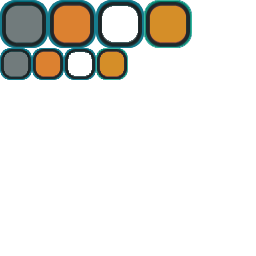
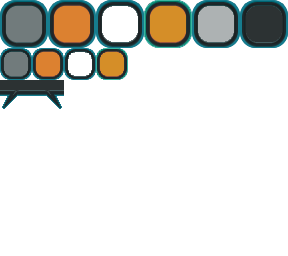
wip: story ui integration, press 8

Changed region(s): [[0.0, 0.0, 1.0, 0.4375]]

diff --git a/js/uxStory.js b/js/uxStory.js
@@ -1,0 +1,121 @@
+export { UxStory };
+
+import { Color } from "./base/color.js";
+import { Generator } from "./base/generator.js";
+import { Hierarchy } from "./base/hierarchy.js";
+import { Keys } from "./base/keys.js";
+import { Util } from "./base/util.js";
+import { UxCtrl } from "./base/uxCtrl.js";
+import { Templates } from "./templates.js";
+
+class UxStory extends UxCtrl {
+    
+    cpost(spec) {
+        super.cpost(spec);
+
+        // fields needed for UI
+        /*
+        let npcName = (this.npc && this.npc.name) ? this.npc.name : "<name>";
+        let bio = (this.npc && this.npc.bio) ? this.npc.bio.info : "<bio>";
+        let job = (this.npc && this.npc.bio) ? this.npc.bio.job : "<job>";
+        let likes = (this.npc && this.npc.bio) ? this.npc.bio.likes : "<likes>";
+        let dislikes = (this.npc && this.npc.bio) ? this.npc.bio.dislikes : "<dislikes>";
+        let portraitTag = (this.npc && this.npc.portraitTag) ? this.npc.portraitTag : "gnome.portrait";
+        // FIXME: tie to npc morale
+        let moraleTag = "like";
+        */
+
+        // construct the UI elements
+        this.view = Generator.generate({
+            cls: "UxCanvas",
+            ui: true,
+            cvsid: "uicanvas",
+            xchildren: [
+                Templates.panel(null, {xsketch: {cls: "Rect", color: "black"}}),
+                Templates.panel(null, {xxform: {offset: 20, left: .1, right: .7, top: .5, bottom: .2}, xchildren: [
+                    Templates.panel("actor1", { xsketch: {cls: "Media", tag: "fairy.right"}}),
+                ]}),
+                Templates.panel(null, {xxform: {left: .3, right: .3, top: .3, bottom: .4}, xchildren: [
+                    Templates.panel(null, { xsketch: {cls: "Media", tag: "buttonDark"}}),
+                ]}),
+                Templates.panel("leftChat", {xxform: {left: .4, right: .6, top: .6, bottom: .4, width: 32, height: 32}, xsketch: { cls: "Media", tag: "chatLeft"}}),
+                Templates.panel("rightChat", {xxform: {left: .6, right: .4, top: .6, bottom: .4, width: 32, height: 32}, xsketch: { cls: "Media", tag: "chatRight"}}),
+                Templates.panel(null, {xxform: {left: .7, right: .1, top: .5, bottom: .2}, xchildren: [
+                    Templates.panel("actor2", { xsketch: {cls: "Media", tag: "fairy.left"}}),
+                ]}),
+                    /*
+                    xchildren: [
+                        Templates.panel(null, {xxform: { bottom: .2, right: .6, offset: 20 }, xchildren: [
+                            {
+                                cls: "UxPanel",
+                                xsketch: { cls: 'Rect', color: new Color(223,221,154,1), xfitter: { cls: "FitToParent" }, width: 50, height: 50, lockRatio: true, },
+                                xxform: { offset: 5 },
+                            },
+                            {
+                                cls: "UxPanel",
+                                xsketch: Object.assign( {lockRatio: true, xfitter: { cls: "FitToParent" }}, {cls: "Media", tag: portraitTag}),
+                                xxform: { offset: 5 },
+                            },
+                            {
+                                cls: "UxPanel",
+                                xsketch: Object.assign( {lockRatio: true, xfitter: { cls: "FitToParent" }}, {cls: "Media", tag: "buttonTrans.small"} ),
+                            },
+                        ]}),
+                        Templates.playText(null, npcName, {color: Templates.menuTextColor, xxform: {offset: 10, top: .75, right: .6, bottom: .05}}),
+                        Templates.panel(null, {xxform: { left: .35, offset: 20 }, xchildren: [
+                            // bio line
+                            Templates.playText(null, "bio:", {xxform: {offset: 5, right: .6,                            top: 0/5, bottom: 1-1/5}}),
+                            Templates.playInput(null, bio, {active: false, xxform: {offset: 5, left: .4,                top: 0/5, bottom: 1-1/5}}),
+                            // profession line
+                            Templates.playText(null, "job:", {xxform: {offset: 5, right: .6,                            top: 1/5, bottom: 1-2/5}}),
+                            Templates.playInput(null, job, {active: false, xxform: {offset: 5, left: .4,                top: 1/5, bottom: 1-2/5}}),
+                            // likes line
+                            Templates.playText(null, "likes:", {xxform: {offset: 5, right: .6,                          top: 2/5, bottom: 1-3/5}}),
+                            Templates.playInput(null, likes, {active: false, xxform: {offset: 5, left: .4,              top: 2/5, bottom: 1-3/5}}),
+                            // dislikes line
+                            Templates.playText(null, "dislikes:", {xxform: {offset: 5, right: .6,                       top: 3/5, bottom: 1-4/5}}),
+                            Templates.playInput(null, dislikes, {active: false, xxform: {offset: 5, left: .4,           top: 3/5, bottom: 1-4/5}}),
+                            // morale/hint line
+                            Templates.playText(null, "morale:", {xxform: {offset: 5, right: .6,                         top: 4/5, bottom: 1-5/5}}),
+                            Templates.panel(null, {
+                                xsketch: { cls: "Media", tag: moraleTag, lockRatio: true}, 
+                                xxform: {offset: 5, left: .4, right: .4,                                                top: 4/5, bottom: 1-5/5}}),
+                            Templates.menuButton("hintButton", "hint", { xxform: { left: .6,                            top: 4/5, bottom: 1-5/5 }}),
+                        ]}),
+                    ],
+                    */
+                Templates.menuButton("skipButton", "skip", { xxform: { left: .4, right: .4, top: .8, bottom: .15}}),
+            ],
+        });
+
+        // lookup UI elements
+        //this.hintButton = Hierarchy.find(this.view, (v) => v.tag === "hintButton");
+        this.skipButton = Hierarchy.find(this.view, (v) => v.tag === "skipButton");
+        // event handling...
+        //Util.bind(this, "onKeyDown", "onHint", "onBack");
+        Util.bind(this, "onKeyDown", "onBack");
+        Keys.evtKeyPressed.listen(this.onKeyDown);
+        //this.hintButton.evtClicked.listen(this.onHint);
+        this.skipButton.evtClicked.listen(this.onBack);
+    }
+
+    // EVENT CALLBACKS -----------------------------------------------------
+    onKeyDown(evt) {
+        if (evt.key === 'Escape' || evt.key === 'z') {
+            this.onBack();
+        }
+    }
+
+    onBack() {
+        // tear down current view
+        this.destroy();
+    }
+
+    // METHODS -------------------------------------------------------------
+    destroy() {
+        Keys.evtKeyPressed.ignore(this.onKeyDown);
+        this.view.destroy();
+        super.destroy();
+    }
+
+}

diff --git a/js/playState.js b/js/playState.js
@@ -28,14 +28,13 @@ import { UxPanel }          from "./base/uxPanel.js";
 import { Font }             from "./base/font.js";
 import { Text }             from "./base/text.js";
 import { Event }            from "./base/event.js";
-import { SparkDialog } from "./sparkDialog.js";
-import { Dialog } from "./base/dialog.js";
 import { UxDialogCtrl } from "./uxDialog.js";
 import { Bounds } from "./base/bounds.js";
 import { Hierarchy } from "./base/hierarchy.js";
 import { PlaySoundAction } from "./base/action.js";
 import { OptionsState } from "./optionsState.js";
 import { UxNpcInfo } from "./uxNpcInfo.js";
+import { UxStory } from "./uxStory.js";
 
 class PlayState extends State {
 
@@ -109,7 +108,7 @@ class PlayState extends State {
         this.camera = spec.camera || Camera.main;
         //this.camera.dbg = true;
 
-        Util.bind(this, "onKeyDown", "onClicked", "onMenu", "onMorale", "onCloseDialog", "onCloseNpcInfo");
+        Util.bind(this, "onKeyDown", "onClicked", "onMenu", "onMorale", "onCloseDialog", "onCloseNpcInfo", "onCloseStory");
         Keys.evtKeyPressed.listen(this.onKeyDown);
         Mouse.evtClicked.listen(this.onClicked);
         let gridView = new GridView({depth: 10, grid: this.grid, xxform: {scalex: Config.renderScale, scaley: Config.renderScale}});
@@ -234,7 +233,7 @@ class PlayState extends State {
             Config.dbg.Stats = !Config.dbg.Stats;
         }
         if (evt.key === "8") {
-            this.genNpcInfo(this.player);
+            this.genStory();
             /*
             let xdialog = SparkDialog.dialogs.test;
             xdialog.actor = this.player;
@@ -509,6 +508,28 @@ class PlayState extends State {
     onCloseNpcInfo() {
         // clear npc info
         this.currentNpcInfo = null;
+        // re-enable play state
+        this.view.active = true;
+        // unpause game
+        Atts.paused = false;
+    }
+
+    genStory(npc) {
+        // don't start new if already running
+        if (this.currentStory) return;
+        // create new view
+        this.currentStory = new UxStory({});
+        // disable play state ui and mouse clicks
+        this.view.active = false;
+        // pause game
+        Atts.paused = true;
+        // hook destroy event for dialog
+        this.currentStory.evtDestroyed.listen(this.onCloseStory);
+    }
+
+    onCloseStory() {
+        // clear npc info
+        this.currentStory = null;
         // re-enable play state
         this.view.active = true;
         // unpause game

diff --git a/js/sparkAssets.js b/js/sparkAssets.js
@@ -556,10 +556,14 @@ class SparkAssets {
                 {tag: "buttonHover", cls: "StretchSprite", width: 48, height: 48, x: 48*1, y: 0, border: 16 },
                 {tag: "buttonTrans", cls: "StretchSprite", width: 48, height: 48, x: 48*2, y: 0, border: 16 },
                 {tag: "buttonPress", cls: "StretchSprite", width: 48, height: 48, x: 48*3, y: 0, border: 16 },
+                {tag: "buttonLight", cls: "StretchSprite", width: 48, height: 48, x: 48*4, y: 0, border: 16 },
+                {tag: "buttonDark", cls: "StretchSprite", width: 48, height: 48, x: 48*5, y: 0, border: 16 },
                 {tag: "buttonOff.small", cls: "StretchSprite", width: 32, height: 32, x: 0, y: 48, border: 12 },
                 {tag: "buttonHover.small", cls: "StretchSprite", width: 32, height: 32, x: 32*1, y: 48, border: 12 },
                 {tag: "buttonTrans.small", cls: "StretchSprite", width: 32, height: 32, x: 32*2, y: 48, border: 12 },
                 {tag: "buttonPress.small", cls: "StretchSprite", width: 32, height: 32, x: 32*3, y: 48, border: 12 },
+                {tag: "chatLeft", cls: "Sprite", width: 32, height: 32, x: 0, y: 80 },
+                {tag: "chatRight", cls: "Sprite", width: 32, height: 32, x: 32, y: 80 },
             ]},
             /*
             { src: "img/buttonHover.png", loader: "Sheet", refs: [
@@ -666,6 +670,9 @@ class SparkAssets {
             { src: "img/fairy.png", loader: "Sheet", refs: [
                 {tag: "fairy.portrait", cls: "Sprite", width: 30, height: 30, x: 9, y: 0 },
                 Templates.xsprite("fairy.static_south", 0, 0, {width: 48, height: 32}),
+                //Templates.anim("fairy.right", {offx:48*3+5, offy: 0, width: 28, height:32, duration: 200, frames: 4}),
+                {tag: "fairy.right", cls: "Sprite", width: 28, height: 32, x: 48*3+9, y: 0 },
+                {tag: "fairy.left", cls: "Sprite", width: 28, height: 32, x: 48*2+12, y: 0 },
                 Templates.anim("fairy.idle_south", {offx:0, offy: 0, width: 48, height:32, duration: 200, frames: 4}),
                 Templates.anim("fairy.idle_north", {offx:48*1, offy: 0, width: 48, height:32, duration: 200, frames: 4}),
                 Templates.anim("fairy.idle_west", {offx:48*2, offy: 0, width: 48, height:32, duration: 200, frames: 4}),
